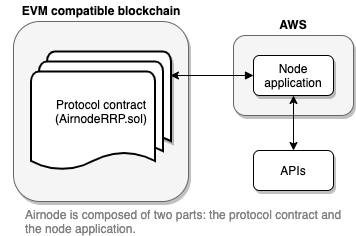
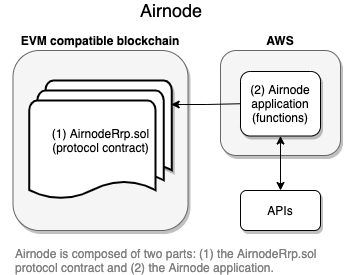
Proof reading

Changed region(s): [[0.0291, 0.0, 1.0, 1.0]]

diff --git a/docs/.vuepress/components/ChainsSupported.vue b/docs/.vuepress/components/ChainsSupported.vue
@@ -5,7 +5,7 @@
       <tr>
         <th>Blockchain</th>
         <th>ID</th>
-        <th>AirnodeRRP Contract ID</th>
+        <th>AirnodeRrp.sol (contract ID)</th>
       </tr>
       <tr>
         <td>mainnet</td><td>1</td><td>...</td>
@@ -26,9 +26,9 @@
         <td>xdai</td><td>100</td><td>...</td>
       </tr>
     </table>
-    <h5 style="margin-top:-14px;color:gray;max-width:550px;">
+    <h5 style="margin-top:-14px;color:gray;max-width:580px;">
       Airnode version: {{version}}. This table shows EVM-compatible blockchains that 
-      the protocol contract has been deployed to as well as the contract ID of each.
+      the AirnodeRrp.sol protocol contract has been deployed to as well as the contract ID of each.
       </h5>
   </div>
 </template>

diff --git a/docs/next/grp-requesters/self-serve-platforms.md b/docs/next/grp-requesters/self-serve-platforms.md
@@ -7,23 +7,23 @@ title: Self-Serve Smart Contract Platforms
 <TocHeader />
 <TOC class="table-of-contents" :include-level="[2,3]" />
 
-Airnode is composed of two parts: the **protocol contract** and the **node application**. API3 has deployed the protocol contract to several EVM-compatible blockchains. A node application is deployed by an API provider to AWS and can communicate with one or more protocol contracts on different chains.
+Airnode is composed of two parts: the **AirnodeRrp.sol** (on-chain protocol contract) and the **Airnode Application** (cloud provider functions, e.g., AWS). API3 has deployed the AirnodeRrp.sol protocol contract to several EVM-compatible blockchains. An API provider deploys an Airnode application to a cloud provider which can communicate with one or more AirnodeRrp.sol protocol contracts on different blockchains.
 
 > ![2-parts](../assets/images/airnode-is-2-parts.png)
 
 ## Is my platform compatible?
 
-The table below shows a list of EVM compatible blockchains (smart contract platforms) that API3 has deployed the _protocol contract_ on. A _node application_ can see the _protocol contract_ using its contract ID. 
+The table below shows a list of EVM compatible blockchains (smart contract platforms) that API3 has deployed the _AirnodeRrp.sol protocol contract_ on. An _Airnode application_ can see the _protocol contract_ using its contract ID. 
  
 <ChainsSupported :version="'0.1.0'" />
 
-This does not mean only these chains can be used. If you are using a smart contract platform that does not have the _protocol contract_ deployed by API3 you could add the _protocol contract_ yourself. API3 has received requests by teams of smart contract platforms and decentralized applications built on them to integrate Airnode and thus gaining access to API data and services. A lot of the smart contract platforms are directly compatible with Airnode, meaning that the integration effort will be trivial and can even be done with minimal support from API3.
+This does not mean only these chains can be used. If you are using a smart contract platform that does not have the _AirnodeRrp.sol protocol contract_ deployed by API3 you could add it yourself. API3 has received requests by teams of smart contract platforms and decentralized applications built on them to integrate Airnode and thus gaining access to API data and services. A lot of the smart contract platforms are directly compatible with Airnode, meaning that the integration effort will be trivial and can even be done with minimal support from API3.
 
 This document enables you to "self-serve" and assess the feasibility of an integration, and even prototype the integration yourself. 
 
 ## EVM Support
 
-Let's go over different factors that determine compatibility. Airnode is composed of two parts: the _protocol contract_ and the _node application_. The protocol contract is implemented in Solidity.
+Let's go over different factors that determine compatibility. Airnode is composed of two parts: the _AirnodeRrp.sol protocol contract_ and the _Airnode application_. The protocol contract is implemented in Solidity.
 
 Solidity typically compiles to EVM bytecode, which means that your smart contract platform should be EVM-compatible. In theory, you can also compile Solidity into other types of bytecode (e.g., WASM) that would run natively on your smart contract platform, yet the resulting integration will need to be tested extensively. So if your smart contract platform runs Solidity contracts, you are good.
 If it does not, the protocol will have to be implemented in the native smart contract language.
@@ -36,7 +36,7 @@ If your platform is not directly compatible, this means that a significant amoun
 
 ## Ethereum JSON-RPC API Compatibility
 
-The node application part of Airnode uses `ethers.js` to interact with the blockchain, which expects to communicate with an Ethereum JSON-RPC API-compatible endpoint.
+The Airnode application part of Airnode uses `ethers.js` to interact with the blockchain, which expects to communicate with an Ethereum JSON-RPC API-compatible endpoint.
 
 Typically, chains that do not support EVM will also not be compatible in this regard.
 However, EVM support does not guarantee blockchain node API compatibility. You can compare your blockchain node API with the [ Ethereum JSON-RPC API](https://eth.wiki/json-rpc/API) to see if it is any different.
@@ -45,11 +45,11 @@ The most obvious sign of a chain supporting the required API functionality is it
 
 ## HTTP vs WSS
 
-Airnode uses the HTTP endpoint to access the JSON-RPC API. Therefore, not supporting WSS endpoints/not having them widely available is not a problem. So if your users can use Metamask to interact with your smart contract platform, you are good. Otherwise, the parts of Airnode that interacts with the chain will need to be customized.
+The Airnode application uses the HTTP endpoint to access the JSON-RPC API. Therefore, not supporting WSS endpoints/not having them widely available is not a problem. So if your users can use Metamask to interact with your smart contract platform, you are good. Otherwise, the parts of Airnode application that interacts with the chain will need to be customized.
 
 ## Next Steps
 
-Assuming you have determined that your smart contract platform, you can attempt the integration yourself by following the steps below. Do not hesitate to drop by [our Discord](https://discord.gg/qnRrcfnm5W) and ask for support.
+Assuming you have determined that your smart contract platform can support Airnode, you can attempt the integration yourself by following the steps below. Do not hesitate to drop by [our Discord](https://discord.gg/qnRrcfnm5W) and ask for support.
 
 ### Part 1: Protocol contract deployment
 
@@ -120,11 +120,11 @@ yarn run deploy:$CHAIN_NAME
 
 If your chain has a customized flow for deploying contracts, you can find the bytecodes of the compiled contracts in the `artifacts/` directory.
 
-Note that you will need to deploy both [AirnodeRRP.sol](../../../technology/protocols/request-response/general-structure.md#airnode-sol) and [Convenience.sol](../../../technology/protocols/request-response/general-structure.md#convenience-sol).
+Note that you will need to deploy both [AirnodeRrp.sol](../technology/protocols/request-response/general-structure.md#airnoderrp-sol) and [Convenience.sol](../technology/protocols/request-response/general-structure.md#convenience-sol).
 
 ### Part 2: Make a test call
 
-After completing Part 1, you must have two contract addresses, one for `AirnodeRRP.sol` and one for `Convenience.sol`.
+After completing Part 1, you must have two contract addresses, one for `AirnodeRrp.sol` and one for `Convenience.sol`.
 Now follow the steps below to make a test call:
 
 1. Clone the [airnode-starter](https://github.com/api3dao/airnode-starter/tree/pre-alpha) repo
@@ -142,4 +142,4 @@ Replace the following values:
 
 3. Follow the [instructions](https://github.com/api3dao/airnode-starter/tree/pre-alpha#setup#setup) (both Step 1 and 2). Note that you can use the `$MNEMONIC` and the `$PROVIDER_URL` you have used while deploying the contracts in your `.env` file.
 
-The final step of the instructions is to run the `make-request` script, which will make a request on your chain for the Airnode to fulfill it. This example project working as intended is a very good indicator that the integration has succeeded.After doing this, you are recommended to take a deep dive into [our docs](https://github.com/api3dao/api3-docs) next to learn more about Airnode and its protocol.
+The final step of the instructions is to run the `make-request` script, which will make a request on your chain for the Airnode to fulfill it. This example project working as intended is a very good indicator that the integration has succeeded. After doing this, you are recommended to take a deep dive into more of these docs to learn more about Airnode.

diff --git a/docs/next/technology/cli-commands.md b/docs/next/technology/cli-commands.md
@@ -7,7 +7,7 @@ title: CLI Commands
 <TocHeader />
 <TOC class="table-of-contents" :include-level="[2,3]" />
 
-> A package/CLI tool to interact with the Airnode contracts across chains
+A package/CLI tool to interact with Airnode across blockchains. There are commands for both requesters and API providers. Requesters can endorse [client contracts](protocols/request-response/client.md) and fund Airnodes. API providers can build [Airnodes](protocols/request-response/airnode.md) that serve their API data to requester client contracts.
 
 Almost all commands require you to provide a `providerUrl` such as `https://ropsten.infura.io/v3/<KEY>`, `https://xdai.poanetwork.dev`, etc.
 The CLI connects to [AirnodeRrp.sol](https://github.com/api3dao/airnode/blob/master/packages/protocol/contracts/AirnodeRrp.sol) contract, which address is derived from the current chain.
@@ -18,18 +18,18 @@ The application will derive the account from the mnemonic with default ethereum 
 Make sure that the wallet that is associated with the mnemonic is funded on the target chain.
 The application will not exit until the transaction is confirmed.
 
-To see all commands:
+**View all commands:**
 ```sh
 npx @api3/airnode-admin --help
 ```
-To see the parameters of a command:
+**View the parameters of a command:**
 ```sh
 npx @api3/airnode-admin $COMMAND --help
 ```
 
 ## SDK
 
-You can also use the package programatically. The SDK exports respective functions for all CLI commands as
+You can also use the package programmatically. The SDK exports respective functions for all CLI commands as
 well as helper functions for obtaining the contract instance on the targeted chain.
 
 ```js
@@ -222,4 +222,4 @@ npx @api3/airnode-admin derive-endpoint-id \
 
 ## More examples
 
-You can find more examples in the test files.
+You can find more examples in the _@api3-dao/airnode/package/admin_ [test files](https://github.com/api3dao/airnode/tree/master/packages/admin/test).

diff --git a/docs/next/grp-requesters/fees.md b/docs/next/grp-requesters/fees.md
@@ -39,5 +39,5 @@ Although the designated wallet scheme allows the requester to cover the fulfillm
 
 ## API Provider Fees
 
-Some API providers charge a subscription fee to access their data. This is a typical practice and usually requires the requester to create an account on a website and then subscribe to a level of service offered. These types of services are usually billed monthly and can be based on an annual rate to save costs. The subscription (even if free) will most likely involve the use of a security scheme such as an api-key that must be used to access the data. See [Calling an Airnode](/) to learn more on how to pass the security credentials to an Airnode.
+Some API providers charge a subscription fee to access their data. This is a typical practice and usually requires the requester to create an account on a website and then subscribe to a level of service offered. These types of services are usually billed monthly and can be based on an annual rate to save costs. The subscription (even if free) will most likely involve the use of a security scheme such as an api-key that must be used to access the data. See [Calling an Airnode](call-an-airnode.md) to learn more on how to pass the security credentials to an Airnode.
 

diff --git a/docs/next/grp-requesters/become-a-requester.md b/docs/next/grp-requesters/become-a-requester.md
@@ -81,7 +81,9 @@ Client contracts endorsed by a requester will have access to all Airnodes the re
 
 Since the designated wallet is recorded in the cloud provider (i.g., AWS) where Airnode functions live, there are no on-chain transaction gas costs when deriving a designated wallet.
 
+::: tip Custodial Wallet
 The requester should keep in mind that a designated wallet is custodial, i.e., the Airnode keeps the private key, and the funds are trusted with the Airnode. Therefore, a requester should not fund a designated wallet with more then they can trust the Airnode with. Learn more about custodial designated wallets in [Fees](fees.md#airnode-execution-fees).
+:::
 
 To fund an Airnode simply tell any Airnode to derive a _designated wallet_ for your requesterIndex. This will return the public address of the wallet so you can fund it.
 
